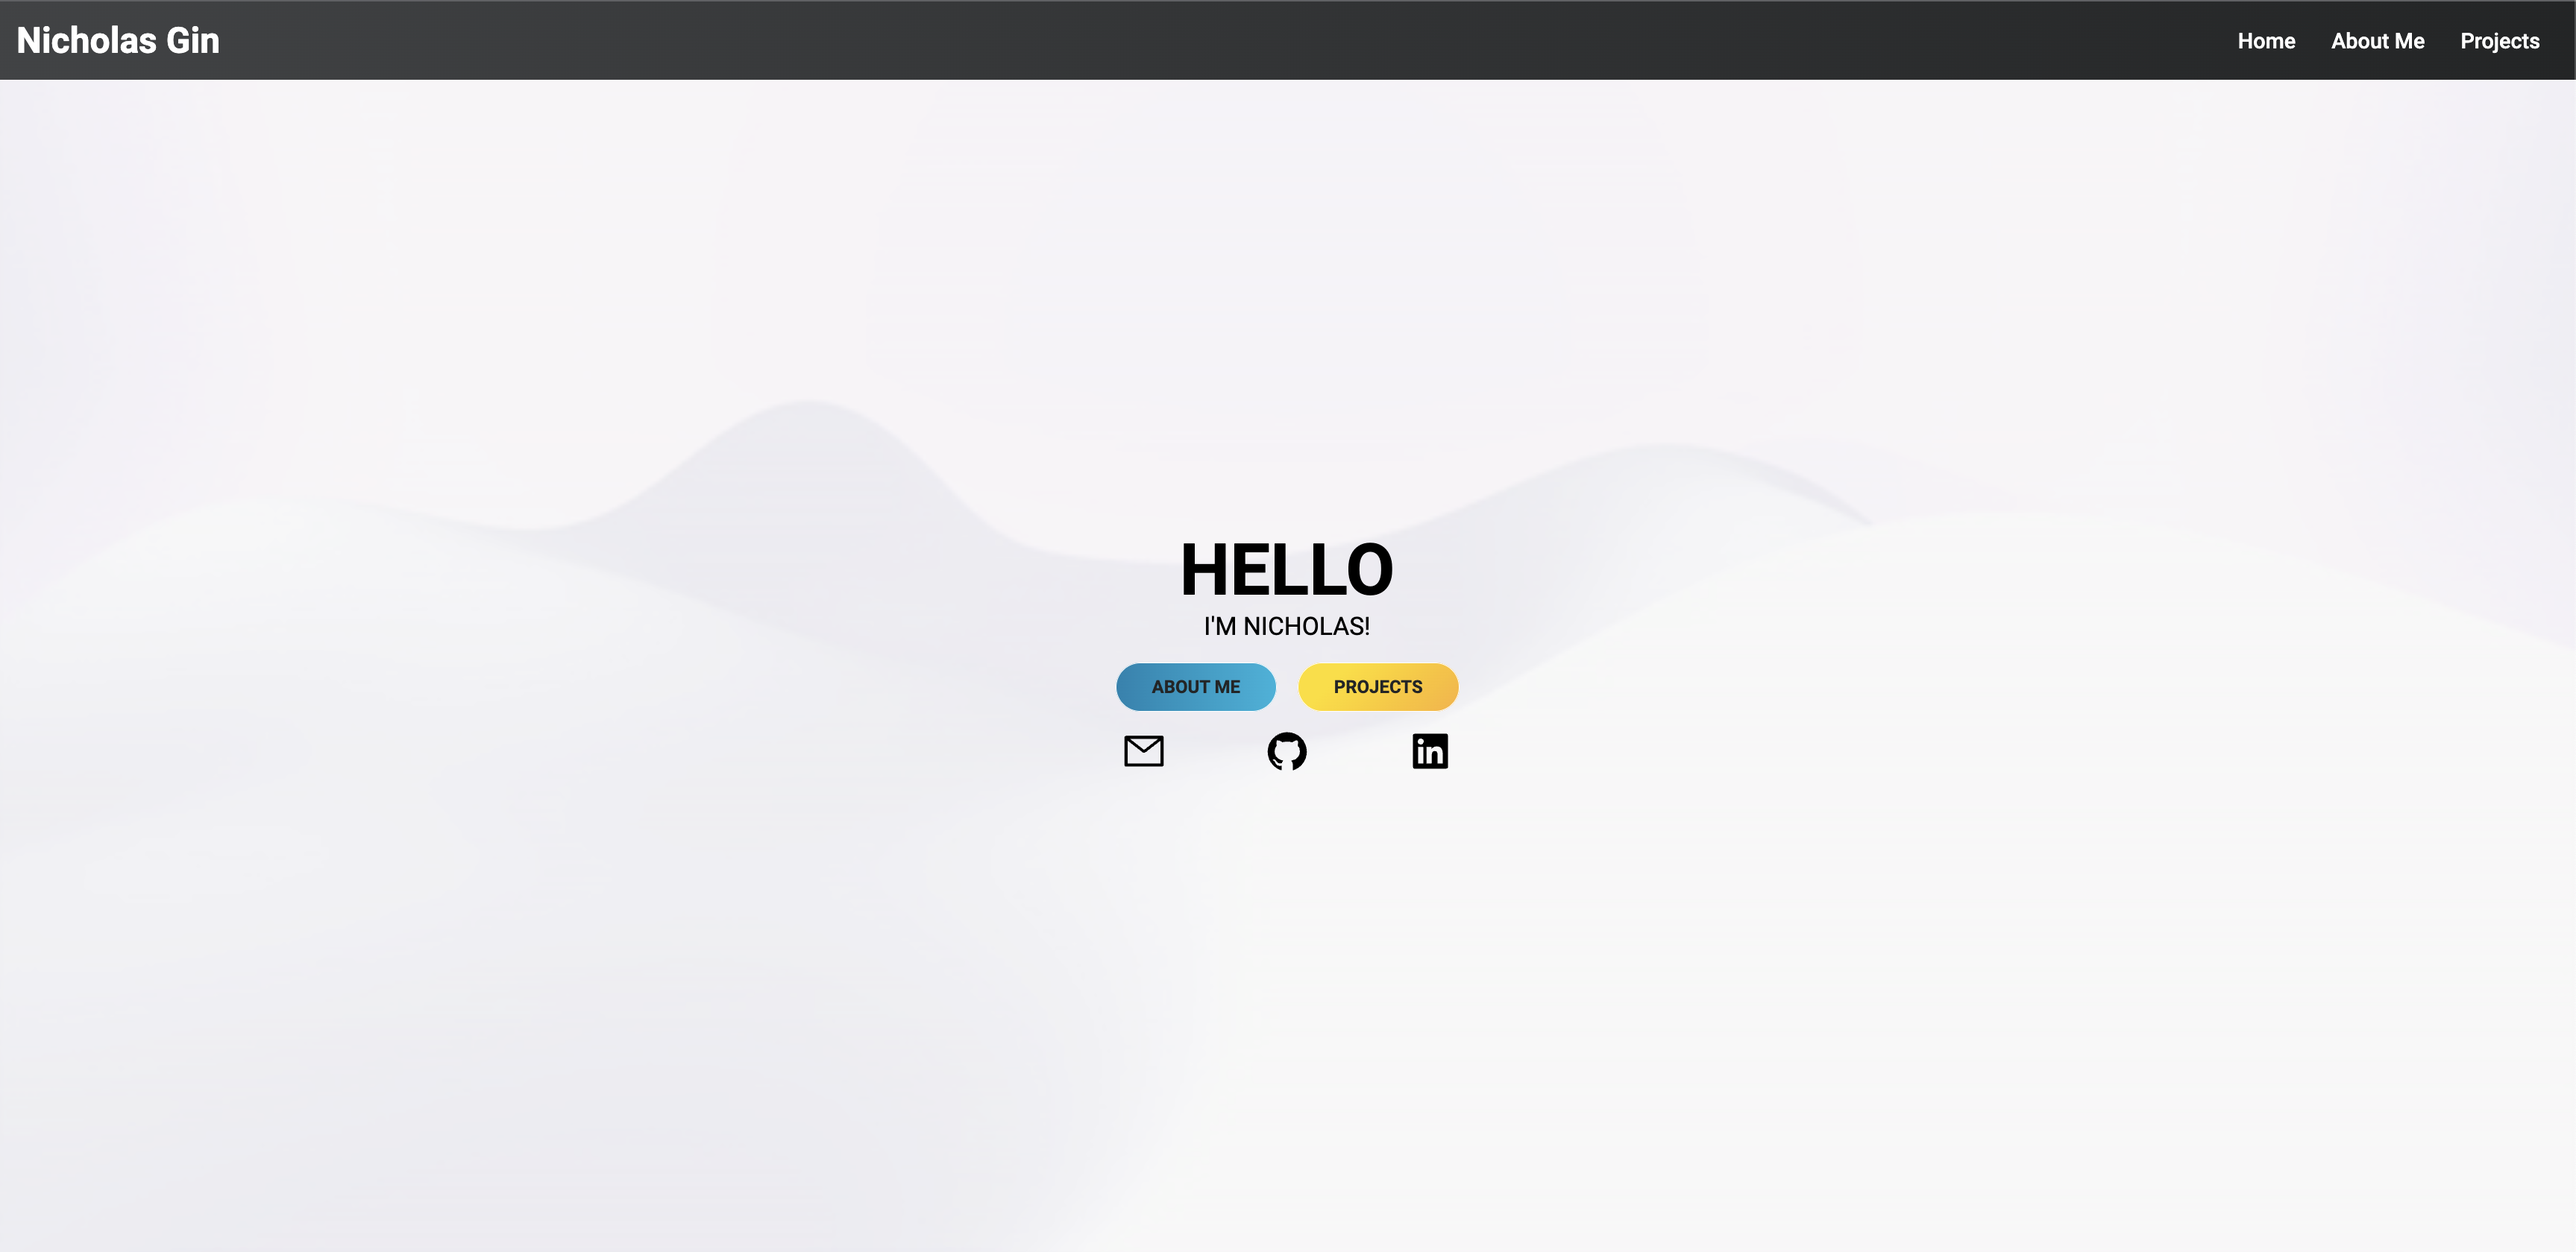
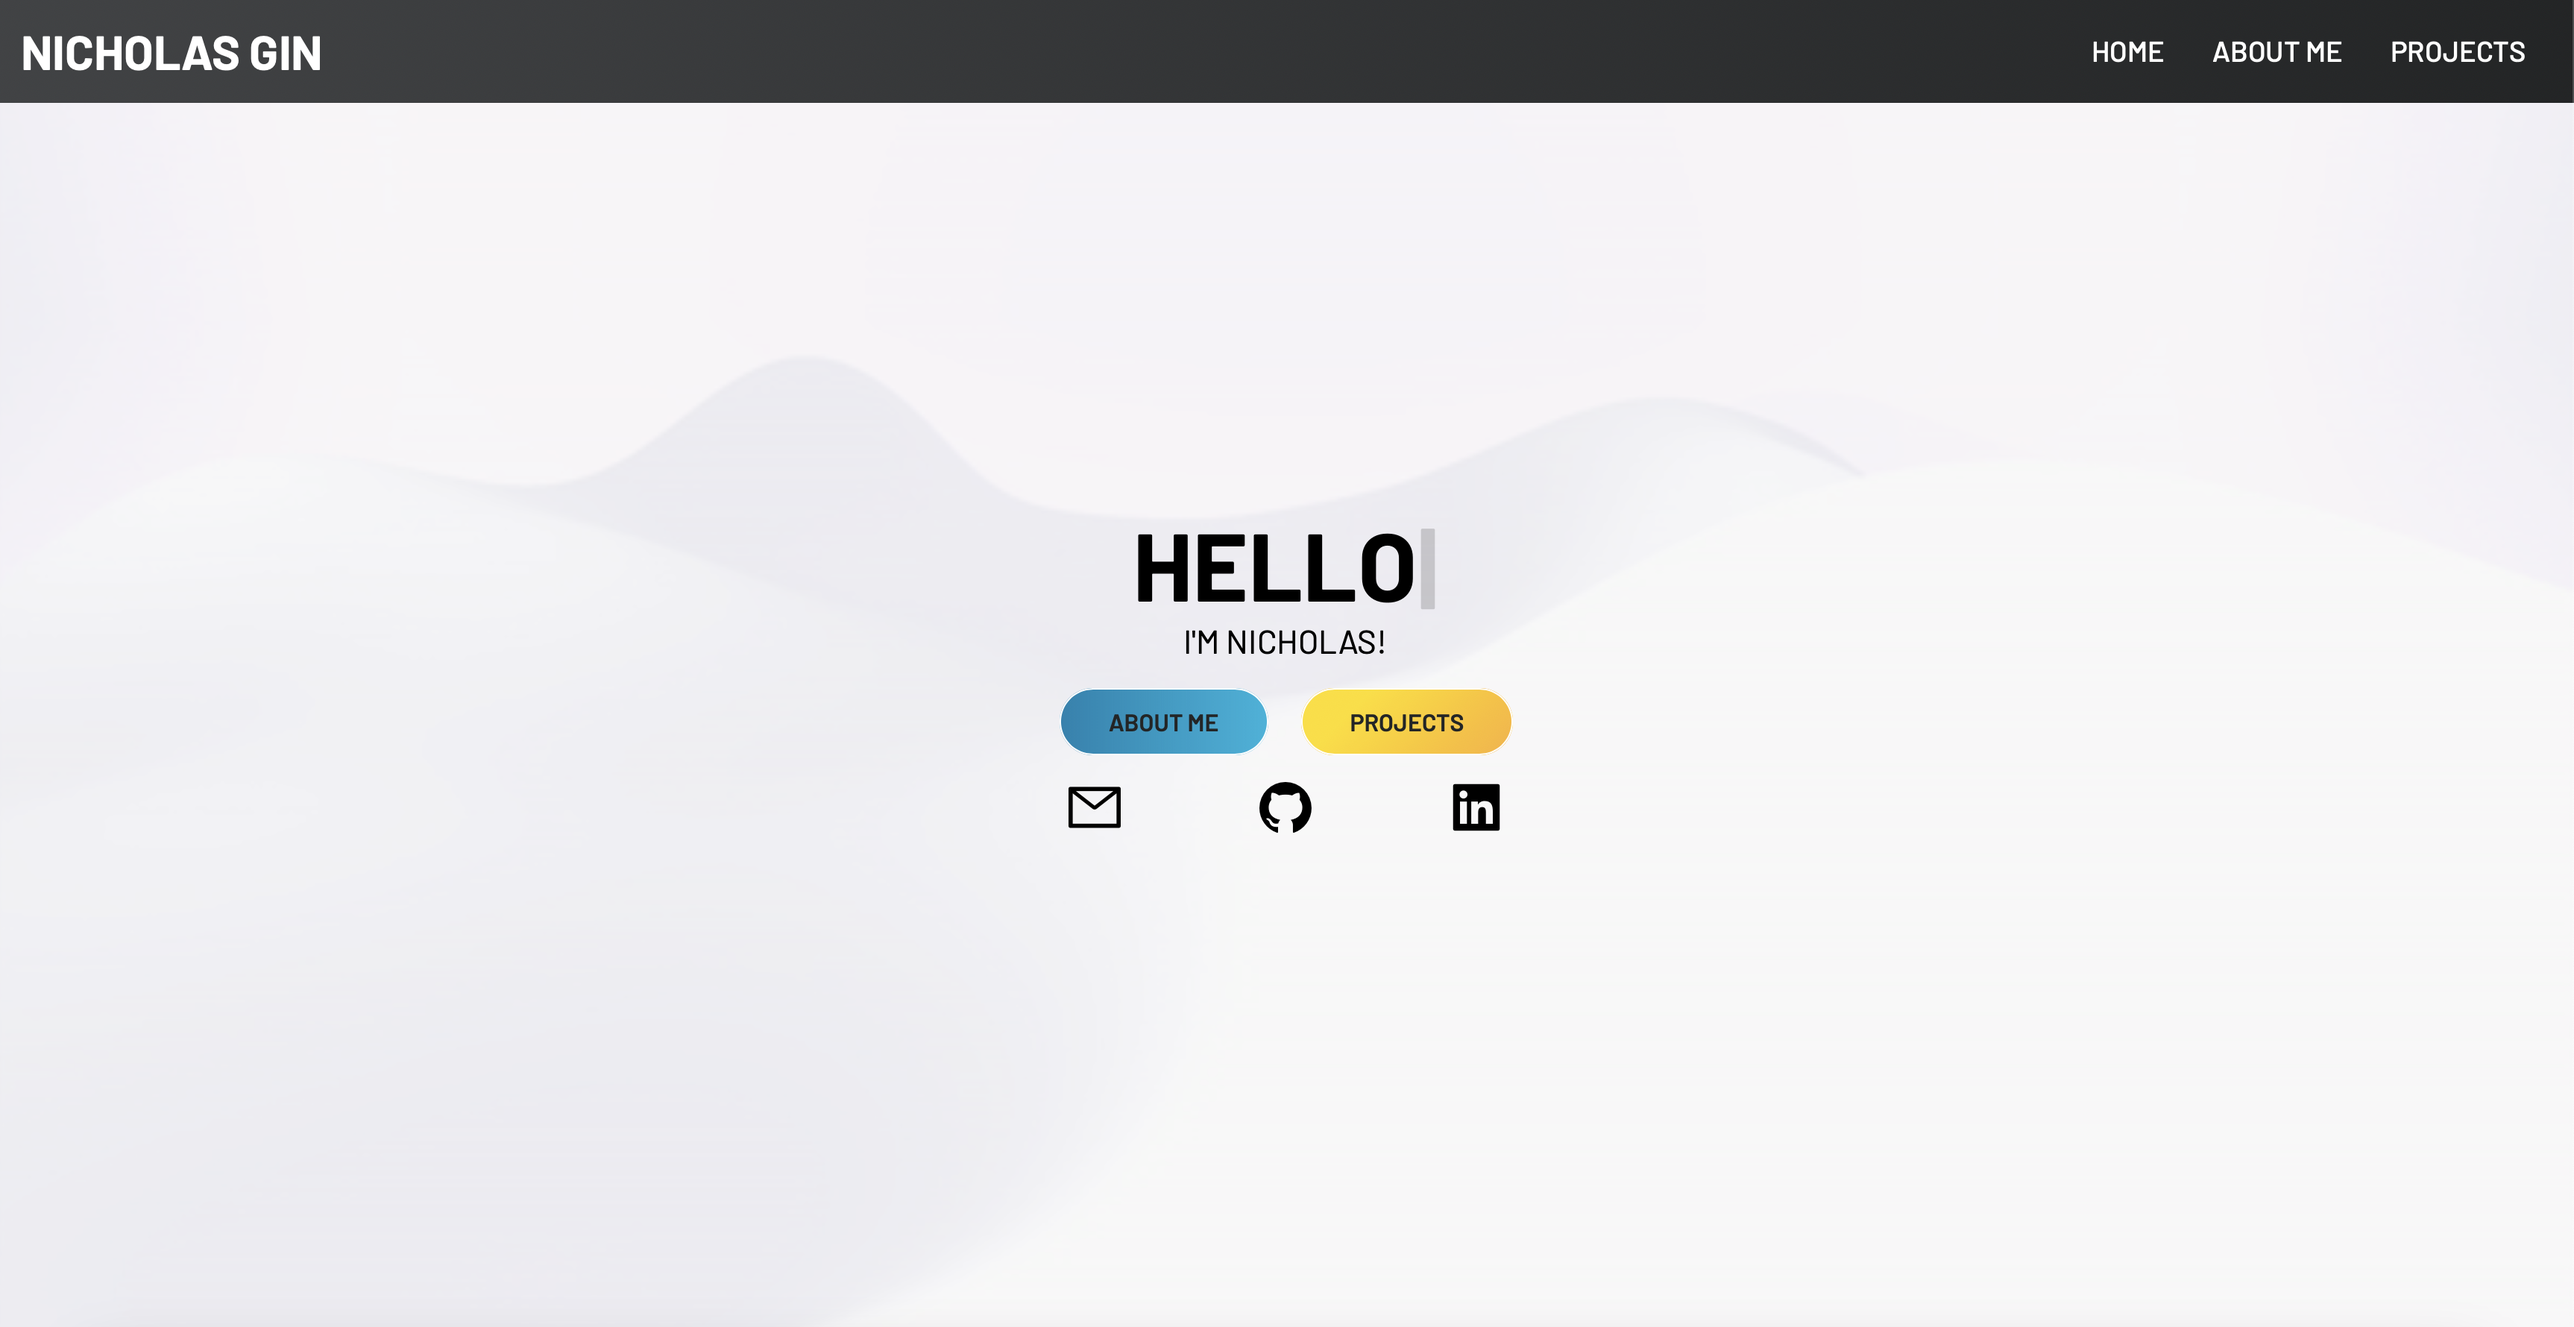
Update styling and project descriptions

Changed region(s): [[0.0, 0.0, 1.0, 0.0929], [0.403, 0.4024, 0.5889, 0.65]]

diff --git a/src/components/ProjectCardInfo.js b/src/components/ProjectCardInfo.js
@@ -18,7 +18,7 @@ const ProjectCardInfo =
         imgsrc: "https://www.youtube.com/embed/dW0wHRrURuY",
         title: "Guess It",
         desc: "I collaborated with a team to design, develop, and deploy an interactive word-guessing game that runs on a web server and is accessed using a web browser.",
-        task1: "• Designed and implemented the game's frontend using HTML, CSS, and JavaScript.",
+        task1: "• Designed and implemented the game's frontend, including five different game modes, using HTML, CSS, and JavaScript.",
         task2: "• Configured the game's backend, including an interactive leaderboard system, using PHP and PostgreSQL.",
         task3: "• Utilized CSS and CSS frameworks (Bootstrap) to style and customize the game's layout and components.",
         source_code: "https://github.com/ngin102/Guess-It"
@@ -29,17 +29,18 @@ const ProjectCardInfo =
         title: "Service Novigrad",
         desc: "I worked on a team to design a mobile Android application that enables users to access and track various provincial services, similar to ServiceOntario.",
         task1: "• Utilized Java and Android Studio to write frontend functionalities and create UI elements for three distinct user types: Administrator, Branch, and Customer.",
-        task2: "• Integrated a login system using Firebase Authentication and backend storage using Firebase Storage.",
+        task2: "• Integrated a login system using Firebase Authentication and utilized regexes to enforce password validation.",
+        task3: "• Implemented backend storage for stored service data using Firebase Storage.",
         source_code: "https://github.com/ngin102/service-novigrad"
     },
 
     {
         imgsrc: PortfolioPic,
         title: "Portfolio",
-        desc: "This portfolio website!",
-        task1: "• Designed and developed a responsive portfolio website using React.js.",
-        task2: "• Utilized React and TypewriterJS components, as well as JSX, to create a dynamic and interactive user interface.",
-        task3: "• Implemented smooth navigation using React Router to enable seamless transitions between different pages.",
+        desc: "I designed and developed a portfolio website (this website) to showcase my skills and projects. The website was built with React.js and offers a responsive layout that adapts to various screen sizes and devices.",
+        task1: "• Designed and developed a responsive portfolio website using React.js, ensuring optimal user experience across various devices and screen sizes.",
+        task2: "• Utilized React and TypewriterJS components, as well as JSX, to create a dynamic, interactive and animated user interface.",
+        task3: "• Implemented seamless navigation using HashRouter, enabling smooth transitions between different pages of the portfolio website and providing a user-friendly browsing experience.",
         source_code: "https://github.com/ngin102/portfolio"
     }
 ]

diff --git a/src/components/AboutScreen.js b/src/components/AboutScreen.js
@@ -159,7 +159,8 @@ const AboutScreen = () => {
                                 <p> • Git </p>
                                 <p> • Android Studio </p>
                                 <p> • Helix ALM </p>
-                                <p> • Eclipse, Visual Studio Code </p>
+                                <p> • Eclipse </p>
+                                <p> • Visual Studio Code </p>
                                 <br></br>
                                 <p> <b> Data Analysis & Visualization: </b> </p>
                                 <p> • Power BI</p>
@@ -243,7 +244,8 @@ const AboutScreen = () => {
                                 <p> • Git </p>
                                 <p> • Android Studio </p>
                                 <p> • Helix ALM </p>
-                                <p> • Eclipse, Visual Studio Code </p>
+                                <p> • Eclipse </p>
+                                <p> • Visual Studio Code </p>
                                 <br></br>
                                 <p> <b> Data Analysis & Visualization: </b> </p>
                                 <p> • Power BI</p>

diff --git a/src/components/Navbar.js b/src/components/Navbar.js
@@ -16,18 +16,18 @@ const Navbar = () => {
     return (
         <div className = "header">
             <Link to = "/">
-            <h1 className = "nav_text"> Nicholas Gin </h1>
+            <h1 className = "nav_text"> NICHOLAS GIN </h1>
             </Link>
 
             <ul className ={click ? "nav_tabs active" : "nav_tabs"}>
                 <li>
-                    <Link to = "/" className = "nav_text" onClick={closeBurger}> Home </Link>
+                    <Link to = "/" className = "nav_text" onClick={closeBurger}> HOME </Link>
                 </li>
                 <li>
-                    <Link to = "/about" className = "nav_text" onClick={closeBurger}> About Me </Link>
+                    <Link to = "/about" className = "nav_text" onClick={closeBurger}> ABOUT ME </Link>
                 </li>
                 <li>
-                    <Link to = "/projects" className = "nav_text" onClick={closeBurger}> Projects </Link>
+                    <Link to = "/projects" className = "nav_text" onClick={closeBurger}> PROJECTS </Link>
                 </li>
             </ul>
 

diff --git a/src/components/AboutScreenStyles.css b/src/components/AboutScreenStyles.css
@@ -5,7 +5,7 @@
     align-items: center;
     justify-content: center;
     height: 100%;
-    position: relative; /* Add position: relative */
+    position: relative;
 }
 
 .about_screen .info 
@@ -238,6 +238,32 @@
 
 @media screen and (max-width: 1040px)
 {
+    html, body {
+        height: 100%;
+        margin: 0;
+        padding: 0;
+      }
+      
+
+    .about_screen {
+        display: flex;
+        flex-direction: column;
+        align-items: center;
+        justify-content: center;
+        height: 100vh; /* Use viewport height to set the height of the div */
+        overflow-x: hidden;
+      }
+
+    .about_screen .info 
+    {
+        position: absolute;
+        top: 50%; /* Position the div 50% from the top */
+        left: 50%; /* Position the div 50% from the left */
+        transform: translate(-50%, -50%); /* Move the div back by half of its width and height */
+        text-align: center;
+        margin-top: 46.3rem;
+    }
+
     .container {
         display: flex;
         flex-direction: column;

diff --git a/src/components/ProjectCardStyles.css b/src/components/ProjectCardStyles.css
@@ -26,7 +26,9 @@
     border: 1px solid #fff;
     display: flex;
     flex-direction: column;
-    justify-content: space-between;
+    align-items: center;
+    justify-content: center;
+    text-align: center;
 }
 
 .project_card img
@@ -55,6 +57,7 @@
 
 .project_btn
 {
+    width: 100%;
     margin-top: auto;
 }
 
@@ -112,18 +115,18 @@
 {
     .project_container
     {
-        max-width: 81%;
+        max-width: 83%;
         margin: auto;
         grid-template-columns: 1fr;
     }
 
     .project_card .btn
     {
-        width: 100%;
+        width: 60%;
     }
 
     .project_card .btn:hover
     {
-        width: 100%;
+        width: 60%;
     }
  }

diff --git a/src/index.css b/src/index.css
@@ -1,4 +1,4 @@
-@import url('https://fonts.googleapis.com/css2?family=Roboto:ital,wght@0,100;0,300;0,400;0,500;0,700;0,900;1,100;1,300;1,400;1,500;1,700;1,900&display=swap');
+@import url('https://fonts.googleapis.com/css2?family=Barlow:ital,wght@0,100;0,200;0,300;0,400;0,500;0,600;0,700;0,800;0,900;1,100;1,200;1,300;1,400;1,500;1,600;1,700;1,800;1,900&display=swap');
 
 .project_screen {
   display: flex;
@@ -34,7 +34,7 @@
   box-sizing: border-box;
   margin: 0;
   padding: 0;
-  font-family: 'Roboto', sans-serif;
+  font-family: 'Barlow', sans-serif;
 }
 
 h4, a

diff --git a/src/components/HomeScreen.js b/src/components/HomeScreen.js
@@ -2,7 +2,6 @@ import "./HomeScreenStyles.css";
 
 import React from "react";
 import { Link } from "react-router-dom";
-import { useEffect, useRef } from "react";
 import Typewriter from 'typewriter-effect';
 import { motion } from "framer-motion/dist/framer-motion";
 import HomeImg from "../assets/background.gif"

diff --git a/src/routes/Home.js b/src/routes/Home.js
@@ -1,6 +1,5 @@
 import React from "react";
 import HomeScreen from "../components/HomeScreen";
-import { motion } from "framer-motion/dist/framer-motion";
 
 const Home = () => {
   return (

diff --git a/src/components/NavbarStyles.css b/src/components/NavbarStyles.css
@@ -54,7 +54,7 @@
         top: 0;
         left: -100%;
         z-index: -3;
-        transition: 0.4s;
+        transition: 0.2s;
     }
 
     .nav_tabs.active
